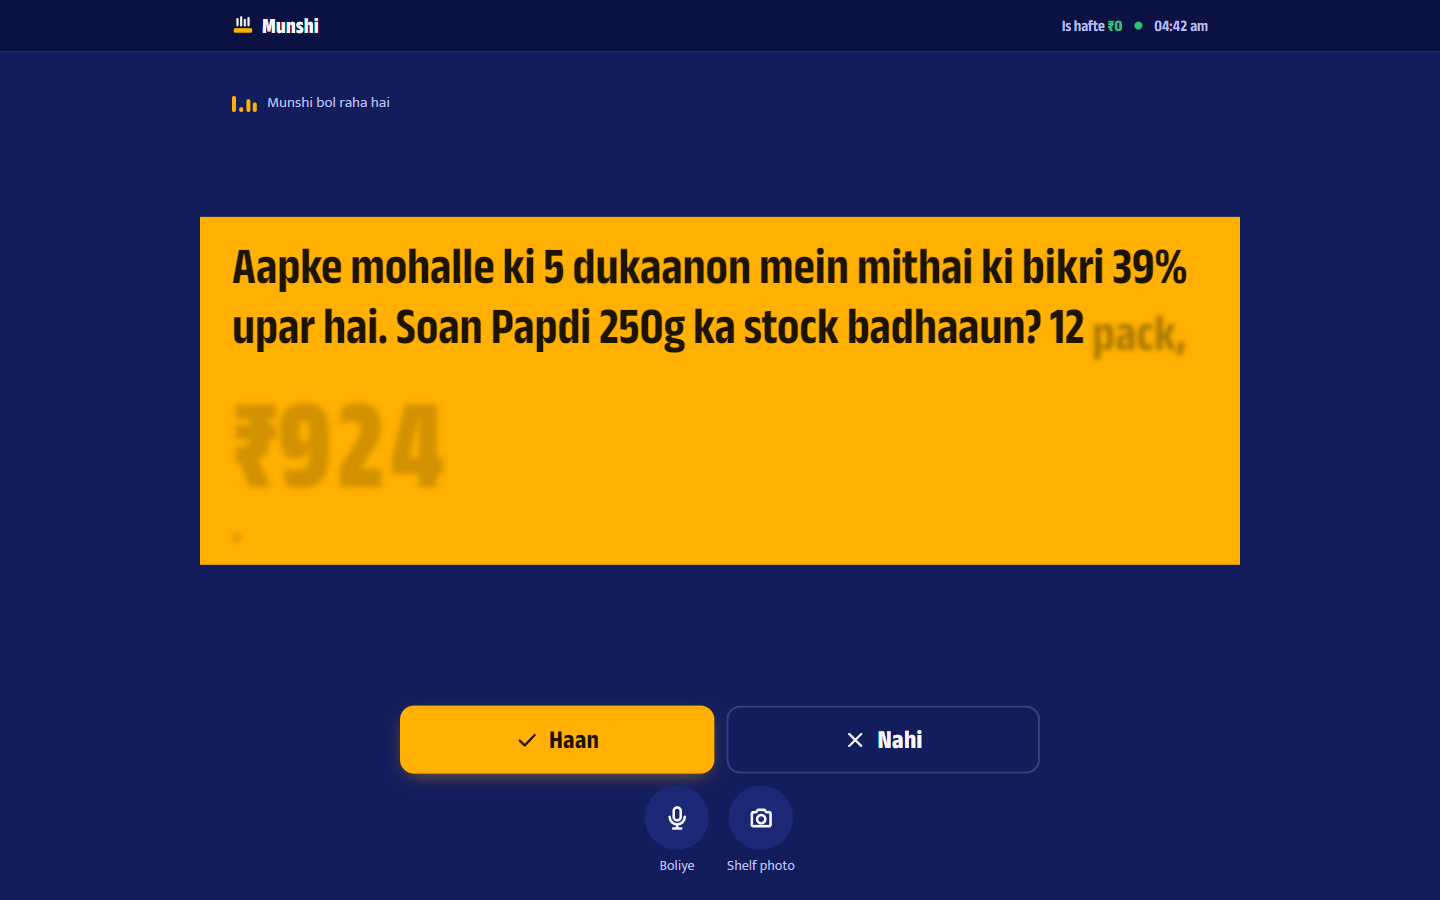
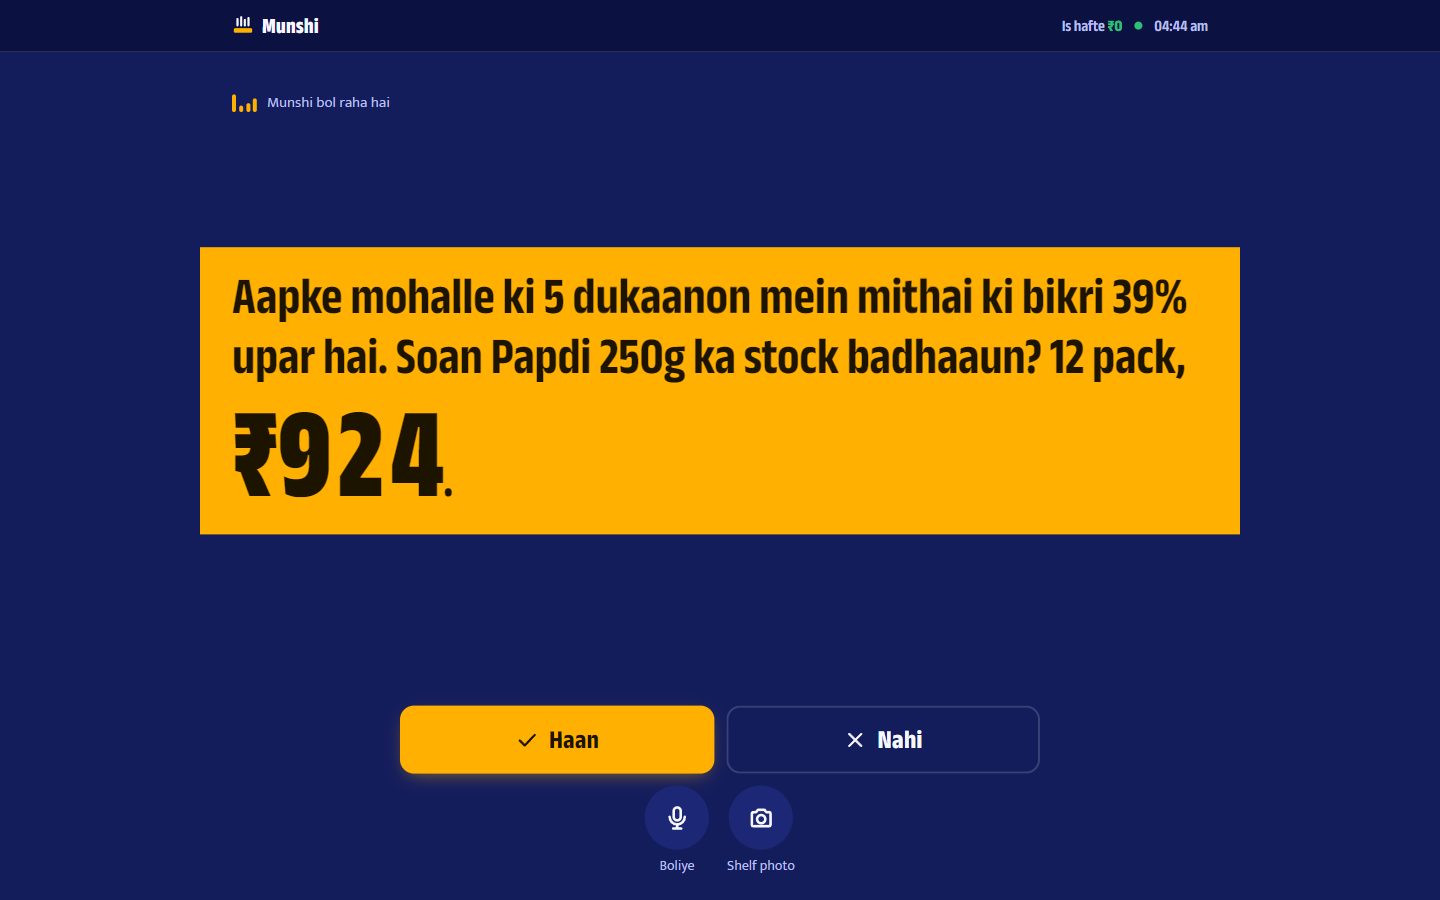
fix: amount punctuation rides inside the monumental figure

Changed region(s): [[0.125, 0.2178, 0.875, 0.56], [0.125, 0.5911, 0.875, 0.6533]]

diff --git a/web/ui.tsx b/web/ui.tsx
@@ -67,13 +67,18 @@ export function Caption({ text, tone, run, step = 300 }: { text: string; tone: T
       <p className="caption-strip">
         {words.map((w, k) => {
           if (/^\s+$/.test(w)) return <span key={k}>{w}</span>;
-          // Split "₹924." so only the figure is styled; punctuation stays at text size.
-          const parts = w.split(/(₹[\d,]*\d)/).filter(Boolean);
+          // "₹924." : the figure is styled, its trailing punctuation rides inside at text size
+          // (a separate span would drop onto its own line under a block-level amount).
+          const parts = w.split(/(₹[\d,]*\d[.,!?]*)/).filter(Boolean);
           return parts.map((part, j) => {
-            const isAmt = /^₹[\d,]*\d$/.test(part);
-            const big = isAmt && !bigUsed;
+            const m = part.match(/^(₹[\d,]*\d)([.,!?]*)$/);
+            const big = !!m && !bigUsed;
             if (big) bigUsed = true;
-            return <span key={`${k}-${j}`} className={`word${isAmt ? ' amt num' : ''}${big ? ' big' : ''}`} style={{ ['--i' as any]: i++ }}>{part}</span>;
+            return (
+              <span key={`${k}-${j}`} className={`word${m ? ' amt num' : ''}${big ? ' big' : ''}`} style={{ ['--i' as any]: i++ }}>
+                {m ? <>{m[1]}{m[2] && <span className="amt-tail">{m[2]}</span>}</> : part}
+              </span>
+            );
           });
         })}
       </p>

diff --git a/web/styles.css b/web/styles.css
@@ -294,3 +294,4 @@ button, input, select { font: inherit; color: inherit; }
 @media (max-width: 639px) { .impact-head { grid-template-columns: 1fr auto; } .impact-head span:first-child { display: none; } }
 /* Long projected figures (crores) shrink to fit a phone; still the largest thing on the page. */
 .big-amt.long { font-size: clamp(40px, 12vw, 132px); overflow-wrap: anywhere; }
+.caption .amt-tail { font-size: var(--caption-lg); font-stretch: 82%; font-weight: 650; letter-spacing: 0; }
